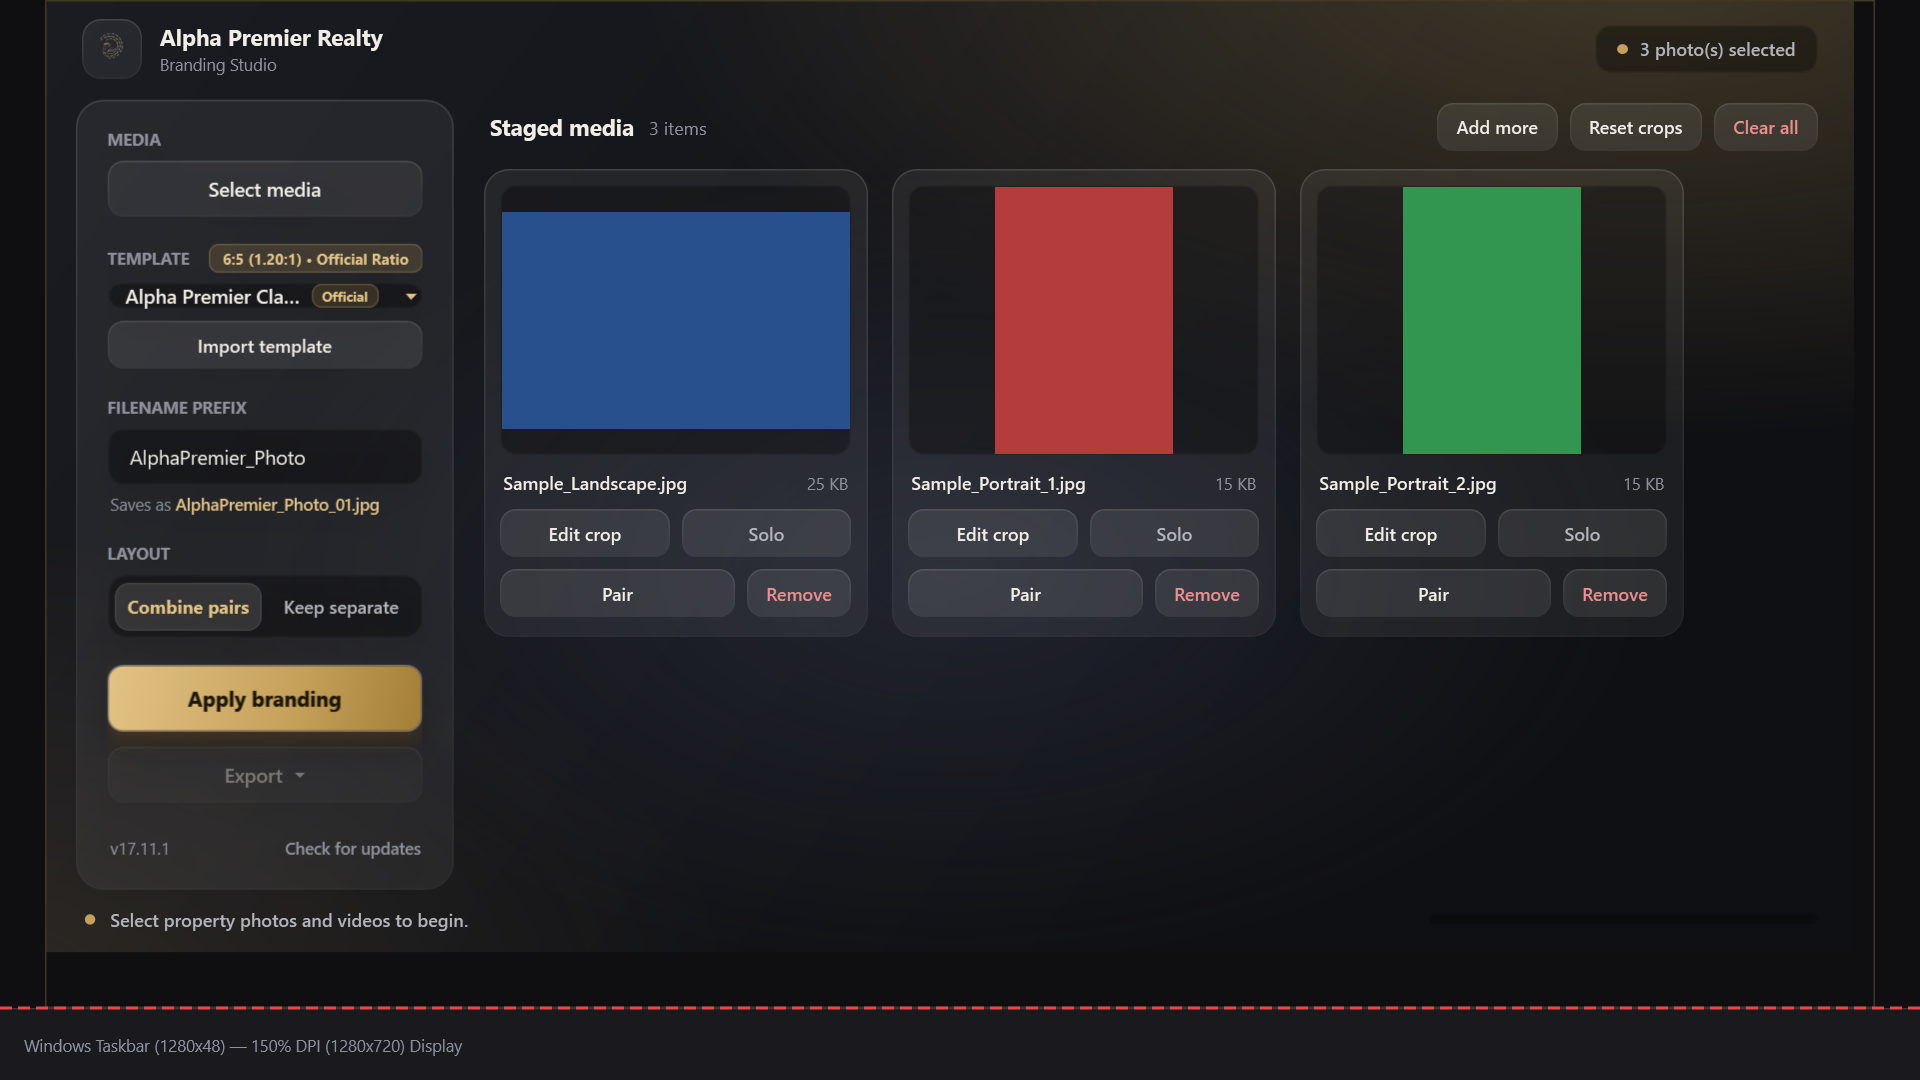
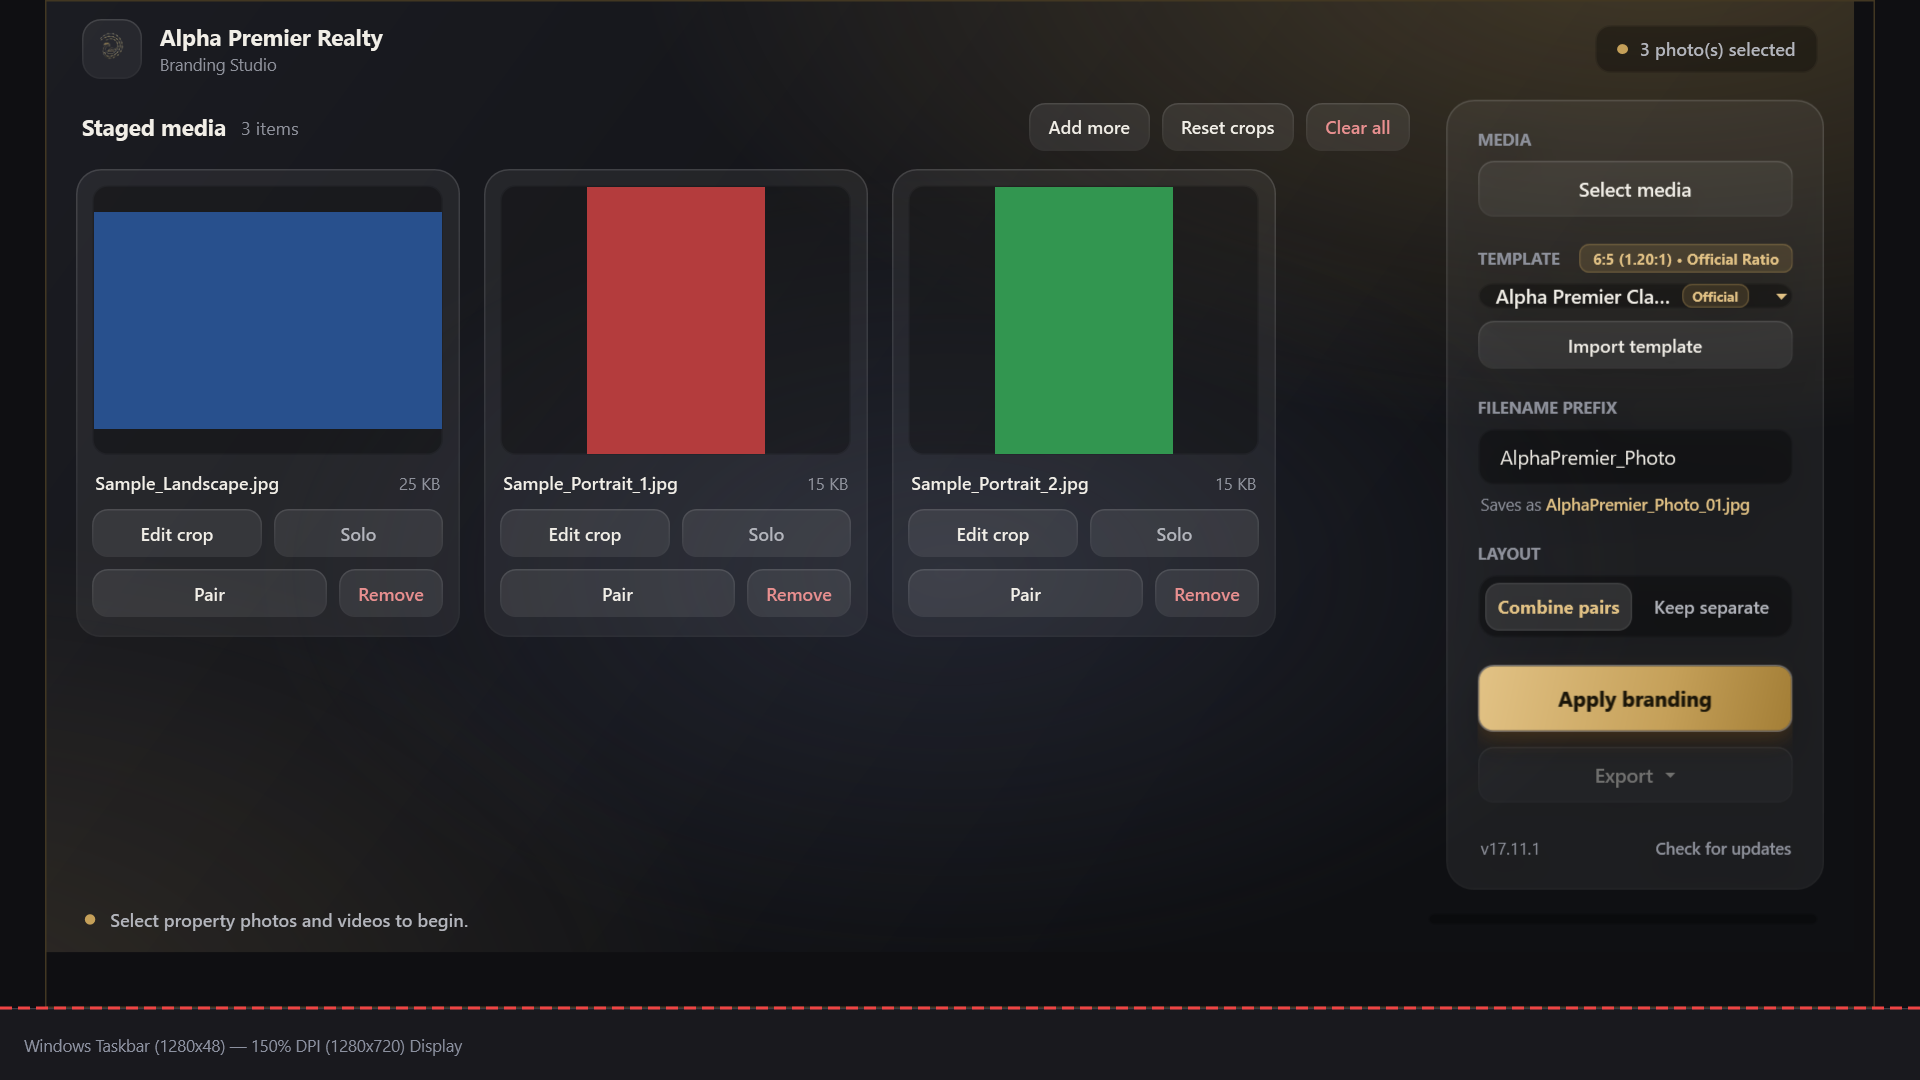
style(ui): move the setup rail to the right of the gallery
The gallery now starts at the left edge under the brand mark and the
setup rail (media, template, prefix, layout, Apply branding, Export)
sits on the right, under the selection summary.

diff --git a/src/Alpha.Branding/MainWindow.xaml b/src/Alpha.Branding/MainWindow.xaml
@@ -80,15 +80,15 @@
         <!-- BODY -->
         <Grid Grid.Row="1" Margin="0,0,0,12">
             <Grid.ColumnDefinitions>
-                <ColumnDefinition Width="272"/>
                 <ColumnDefinition Width="*"/>
+                <ColumnDefinition Width="272"/>
             </Grid.ColumnDefinitions>
 
             <!-- SETUP RAIL -->
-            <Border Grid.Column="0"
+            <Border Grid.Column="1"
                     Style="{StaticResource GlassPanelRaised}"
                     Padding="20,18"
-                    Margin="0,0,20,0">
+                    Margin="20,0,0,0">
                 <Grid>
                     <Grid.RowDefinitions>
                         <RowDefinition Height="Auto"/>
@@ -359,7 +359,7 @@
             </Border>
 
             <!-- GALLERY: empty state, staged media, or branded results -->
-            <Grid Grid.Column="1">
+            <Grid Grid.Column="0">
                 <!-- Empty State -->
                 <Border Visibility="{Binding IsEmptyState, Converter={StaticResource BooleanToVisibilityConverter}}"
                         AutomationProperties.AutomationId="EmptyStateBorder"
